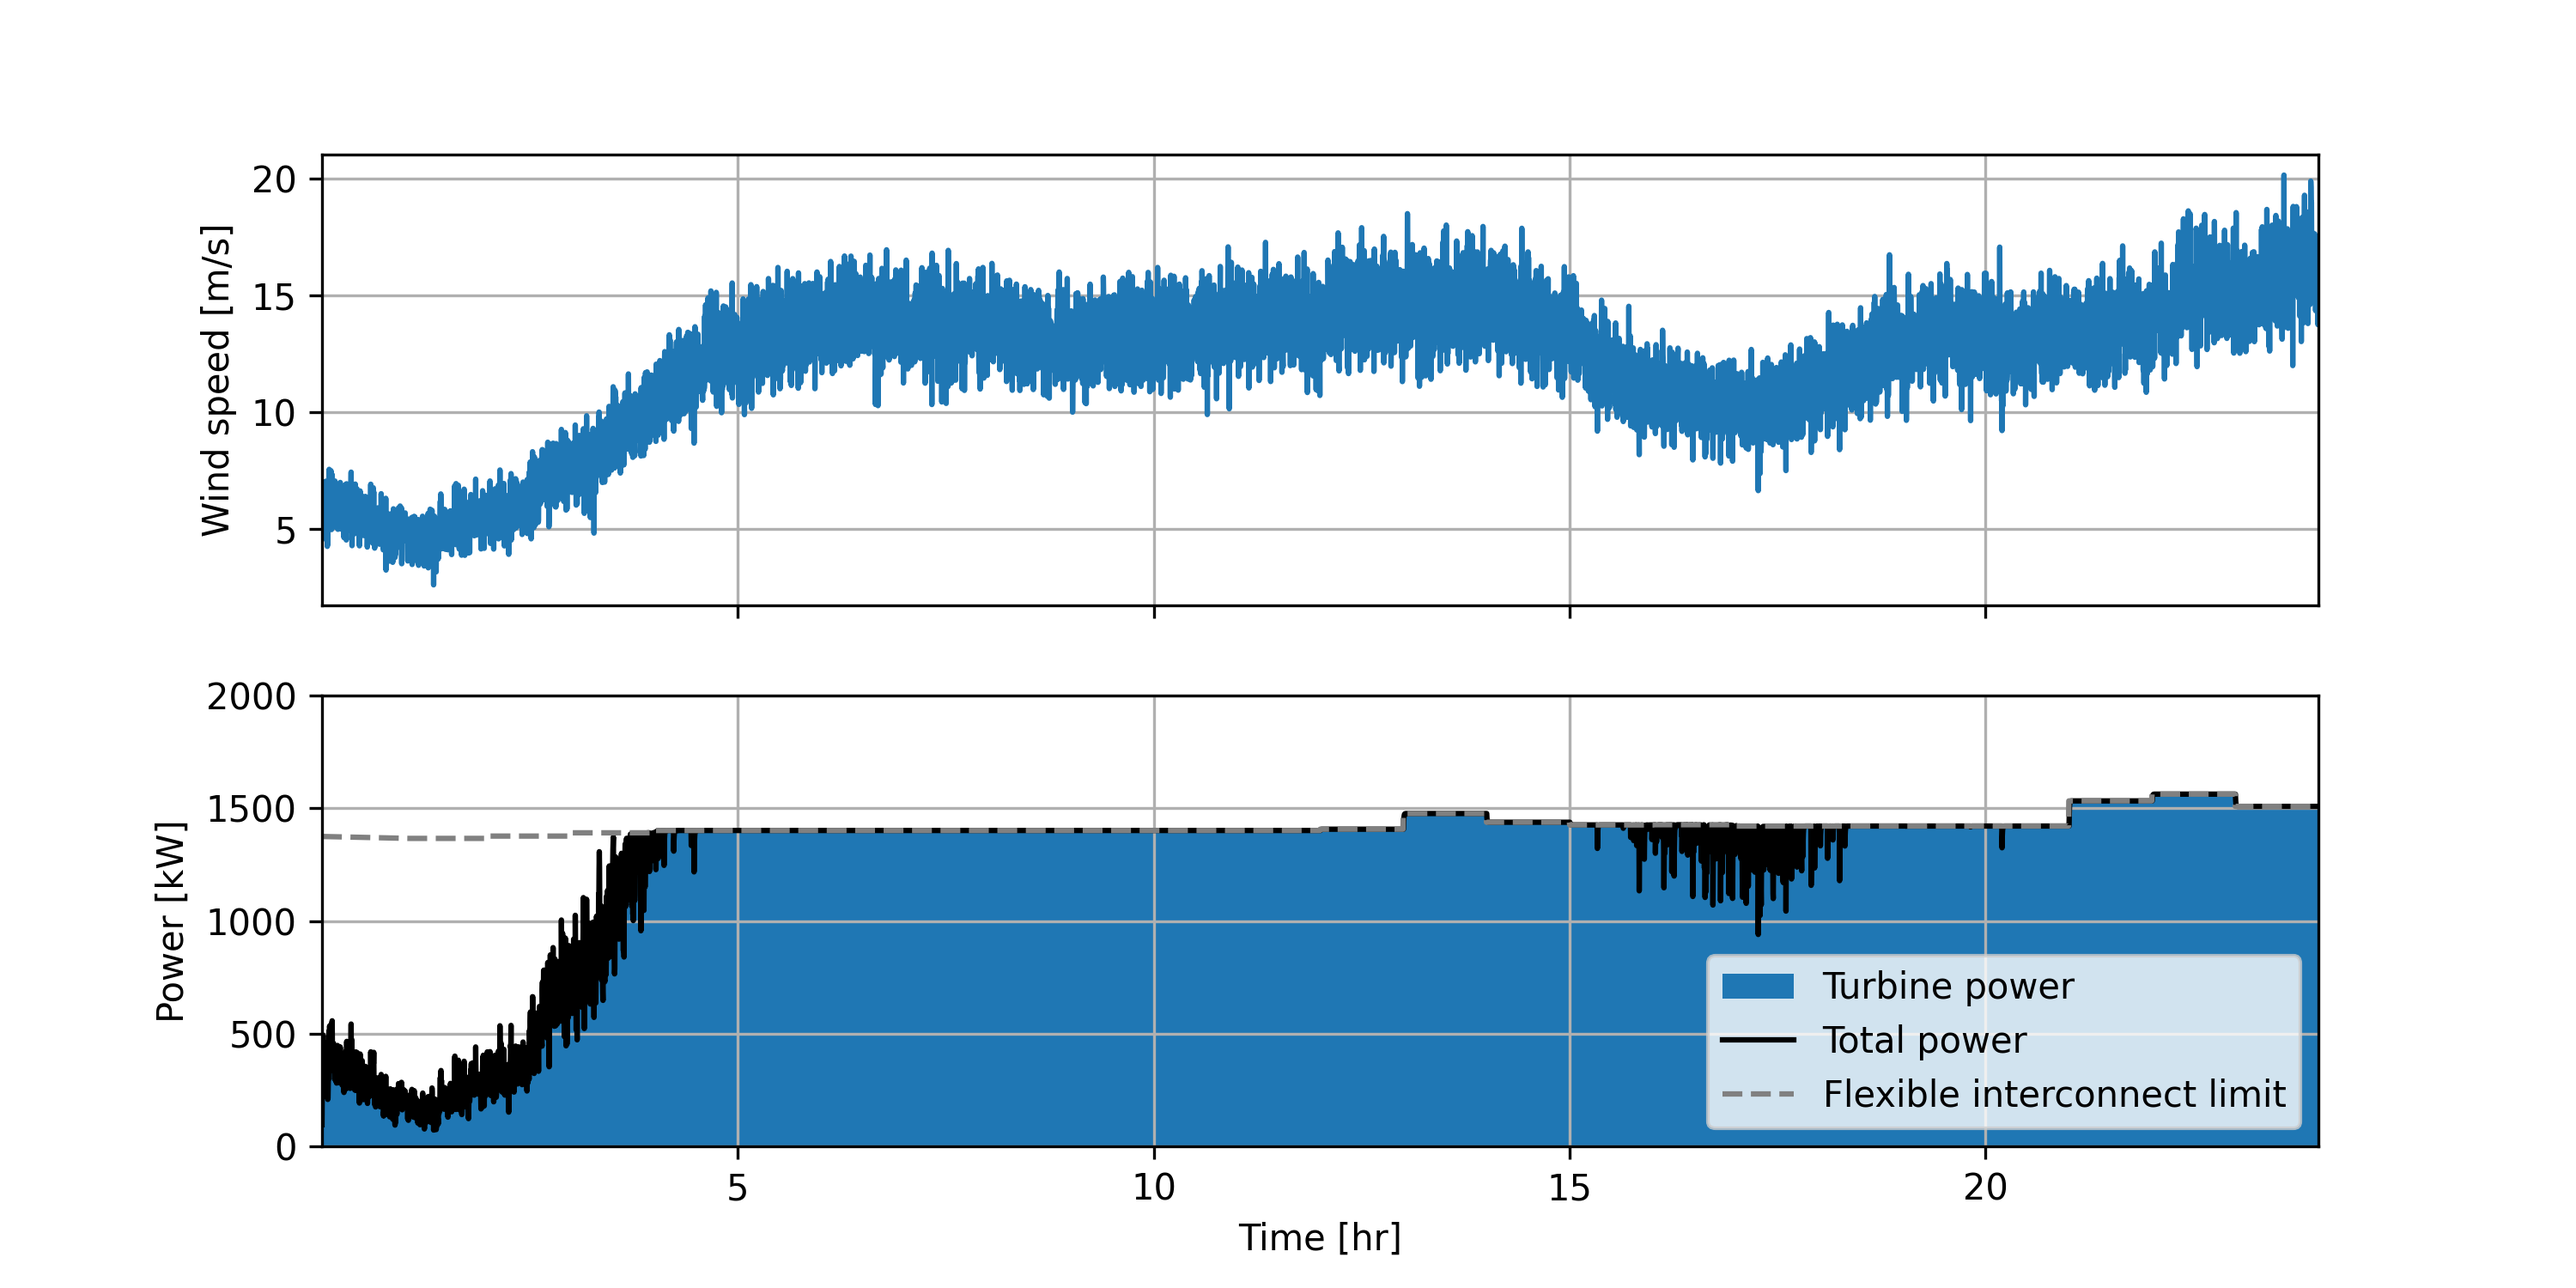
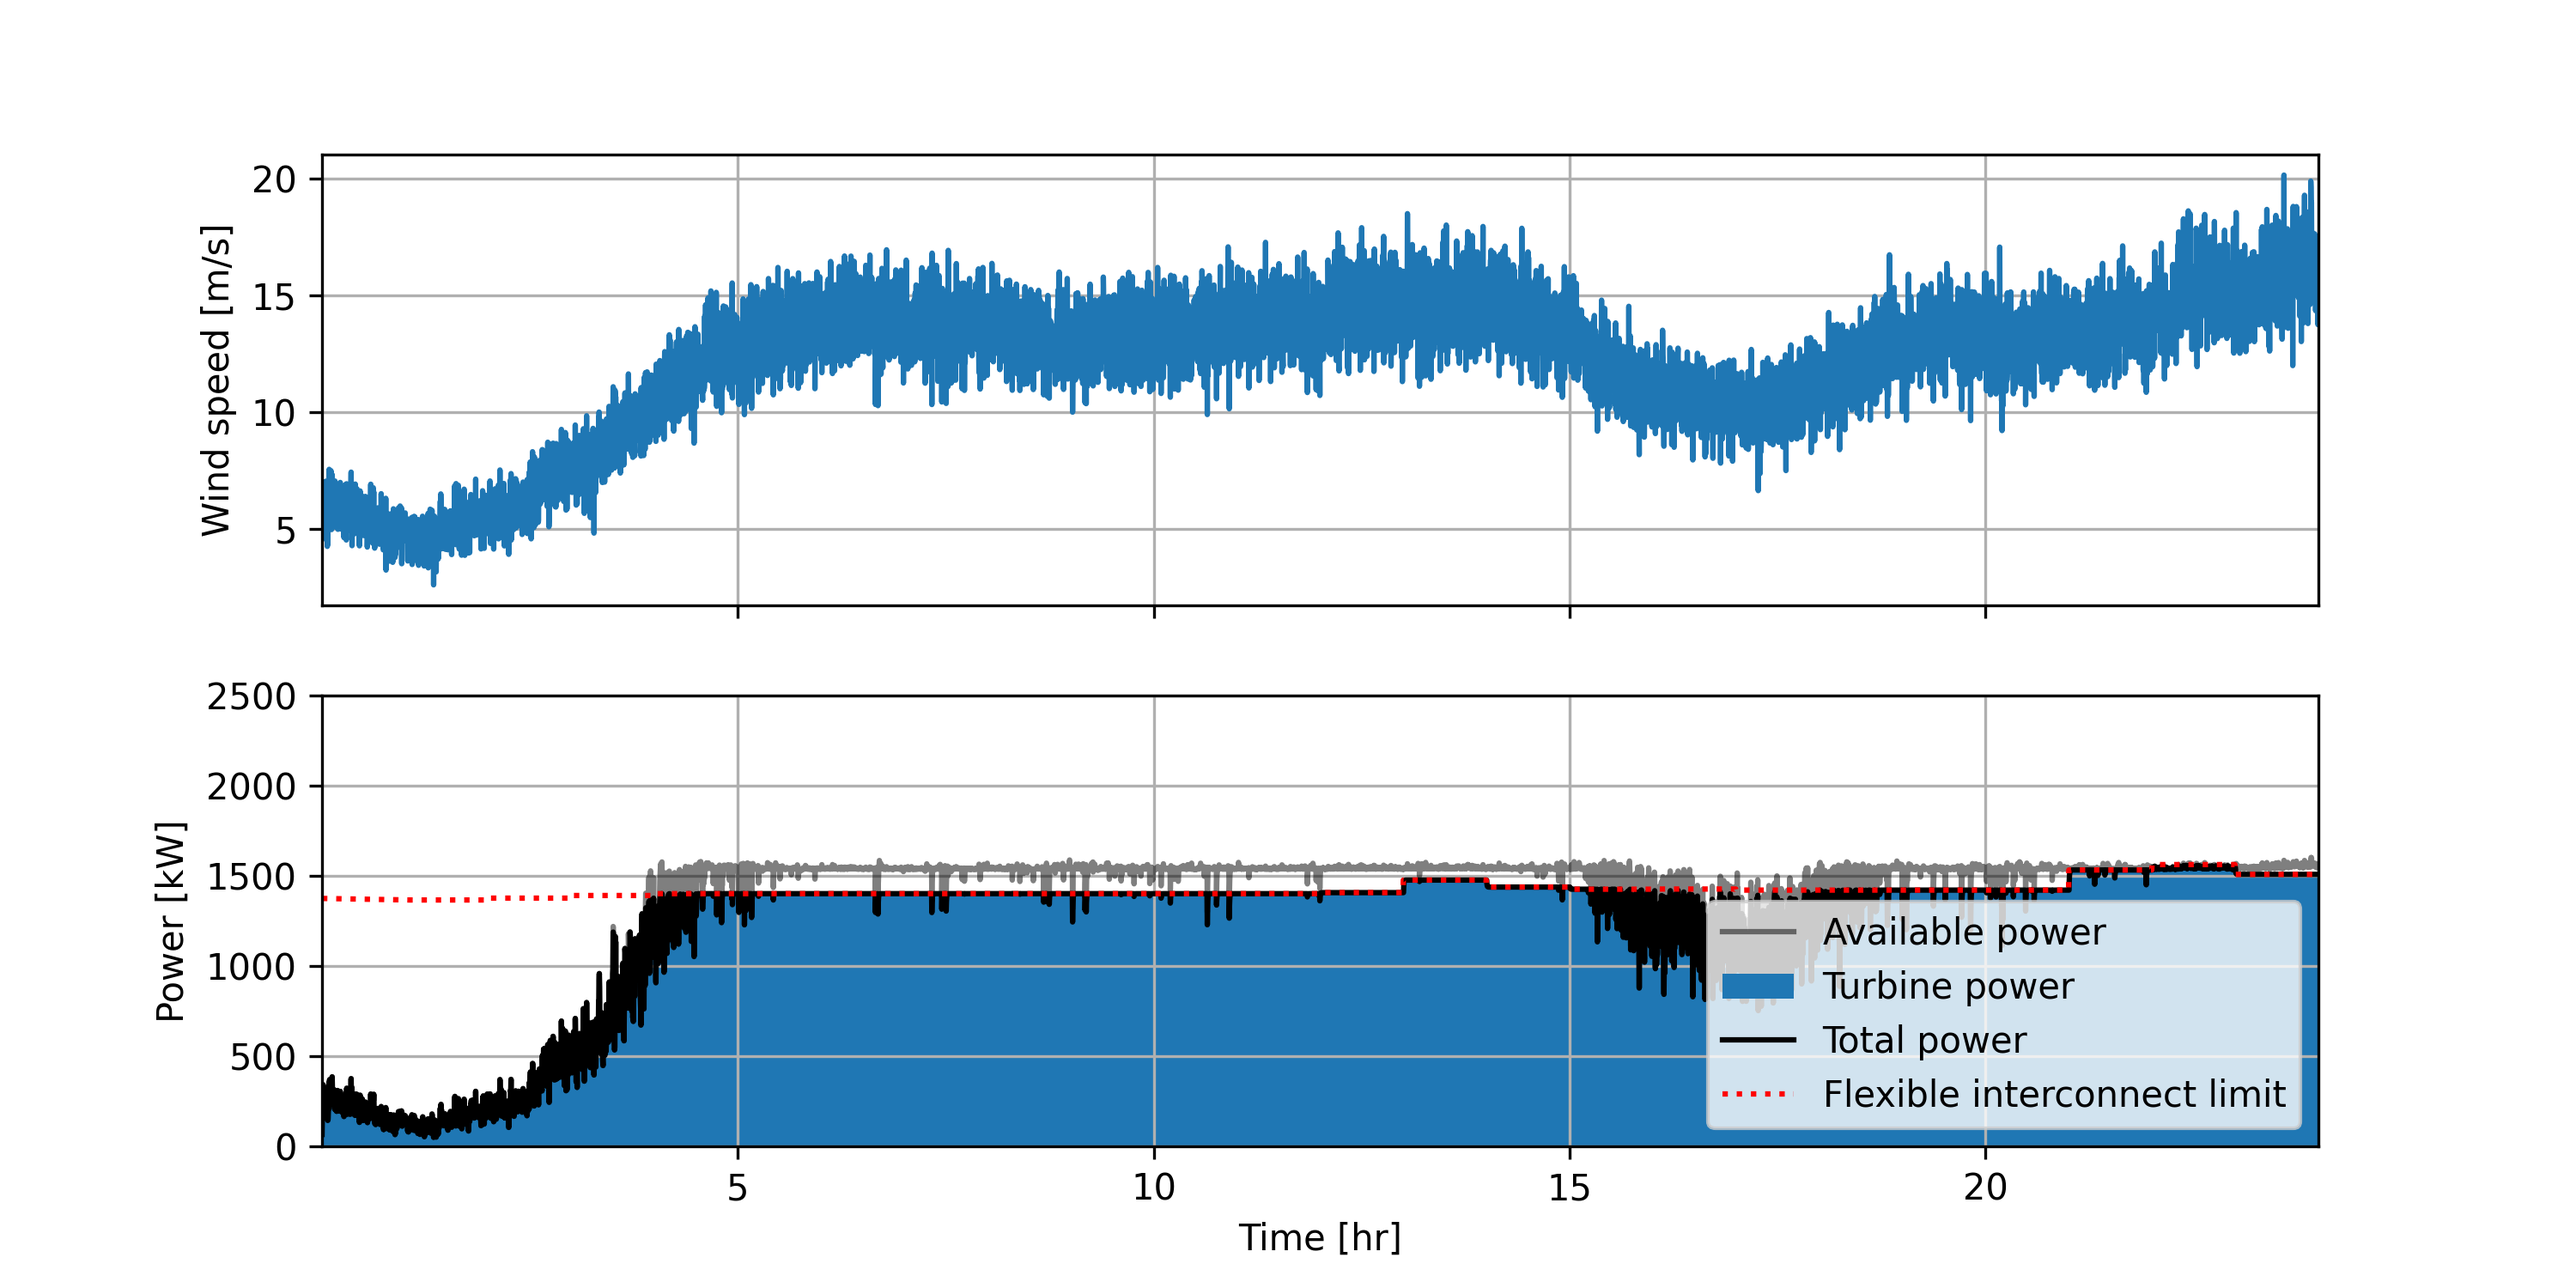
Add baseline no curtailment case and compare

Changed region(s): [[0.093, 0.6133, 0.899, 0.8893], [0.775, 0.7973, 0.899, 0.828], [0.062, 0.5827, 0.124, 0.644]]

diff --git a/examples/single_turbine_flexible_interconnect/plot_output_data.py b/examples/single_turbine_flexible_interconnect/plot_output_data.py
@@ -2,6 +2,7 @@ import matplotlib.pyplot as plt
 import pandas as pd
 
 df = pd.read_csv("outputs/hercules_output.csv")
+df_base = pd.read_csv("outputs/hercules_output_baseline.csv")
 
 n_turbines = 1
 wf_str = "hercules_comms.amr_wind.wind_farm_0."
@@ -23,23 +24,38 @@ wds = df[wd_cols].to_numpy()
 yaws = df[yaw_cols].to_numpy()
 ref = df[ref_col].to_numpy()
 
+powers_base = df_base[pow_cols].to_numpy()
+
 ax[0].plot(time/3600, df[ws_col], color="C0", label="Wind speed")
 ax[0].set_ylabel("Wind speed [m/s]")
 ax[0].grid()
 
 # Power output
+ax[1].plot(time/3600, powers_base.sum(axis=1), color="black", label="Available power", alpha=0.5)
 line = ax[1].fill_between(time/3600, powers[:,0], label="Turbine power")
 ax[1].plot(time/3600, powers.sum(axis=1), color="black", label="Total power")
-ax[1].plot(time/3600, ref, color="gray", linestyle="dashed", label="Flexible interconnect limit")
+ax[1].plot(time/3600, ref, color="red", linestyle="dotted", label="Flexible interconnect limit")
 
 # Plot aesthetics
 ax[1].grid()
 ax[1].set_ylabel("Power [kW]")
 ax[1].set_xlim([time[0]/3600, time[-1]/3600])
-ax[1].set_ylim([0, 2000])
+ax[1].set_ylim([0, 2500])
 ax[1].legend(loc="lower right")
 ax[1].set_xlabel("Time [hr]")
 
 # fig.savefig("../../docs/graphics/flexible-interconnect.png", dpi=300, format="png")
+
+dt = time[1] - time[0]
+available_energy = powers_base.sum()*dt/3600
+curtailed_energy = (powers_base-powers).sum()*dt/3600
+percentage_curtailed = curtailed_energy / available_energy * 100
+# 10 kW threshold for "curtailed" when computing time curtailed
+curtailed_hrs = ((powers_base - powers).sum(axis=1) > 10).sum() * dt/3600
+print("Curtailed energy: {0:.2f} kWh ({1:.1f}% of available)".format(
+    curtailed_energy, percentage_curtailed
+    )
+)
+print("Total time curtailed: {0:.1f} hours".format(curtailed_hrs))
 
 plt.show()

diff --git a/examples/single_turbine_flexible_interconnect/hercules_runscript_baseline.py b/examples/single_turbine_flexible_interconnect/hercules_runscript_baseline.py
@@ -1,0 +1,24 @@
+import sys
+
+from hercules.emulator import Emulator
+from hercules.py_sims import PySims
+from hercules.utilities import load_yaml
+from whoc.controllers.wind_farm_power_tracking_controller import WindFarmPowerTrackingController
+from whoc.interfaces.hercules_actuator_disk_interface import HerculesADInterface
+
+input_dict = load_yaml(sys.argv[1])
+input_dict["output_file"] = "outputs/hercules_output_baseline.csv"
+del input_dict["external_data_file"] # Remove wind reference
+
+interface = HerculesADInterface(input_dict)
+
+print("Running closed-loop controller...")
+controller = WindFarmPowerTrackingController(interface, input_dict)
+
+py_sims = PySims(input_dict)
+
+emulator = Emulator(controller, py_sims, input_dict)
+emulator.run_helics_setup()
+emulator.enter_execution(function_targets=[], function_arguments=[[]])
+
+print("Finished running closed-loop controller.")

diff --git a/docs/examples.md b/docs/examples.md
@@ -136,8 +136,15 @@ To run this example, navigate to the examples/single_turbine_flexible_interconne
 ```
 bash run_script.sh
 ```
-This will run a 24 hour simulation with 10s time steps of the turbine and controller tracking a flexible interconnect limit. The resulting trajectories are plotted, producing:
+This will run a 24 hour simulation with 10s time steps of the turbine and controller tracking a flexible interconnect limit. Also run is a simulation where the wind turbine power output is not constrained by the interconnect, providing a baseline to compute curtailment. The resulting trajectories are plotted, producing:
 ![Results of single_turbine_flexible_interconnect example](
     graphics/flexible-interconnect.png
 )
+as well printing
+```
+Curtailed energy: 1937.43 kWh (6.2% of available)
+Total time curtailed: 17.6 hours
+```
+to the console.
+
 The wind speed is low in the first 4 hours or so, and the turbine cannot use its full interconnect allocation. The wind speed then increases and the full hourly interconnect limit is used. Between hours 15 and 20, the wind speed is fluctuating around 10 m/s and the turbine is not fully reaching the interconnect allocation, but during periods of higher wind speeds the interconnect limit is adhered to.
